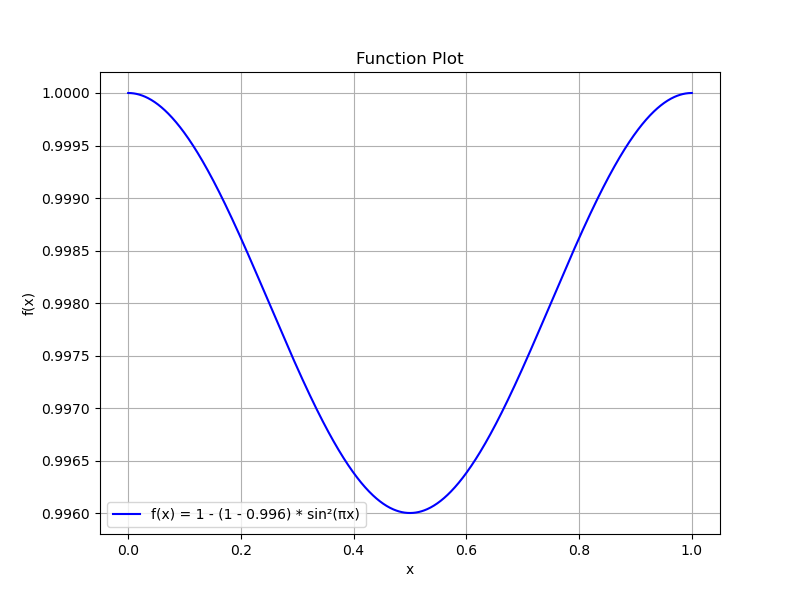
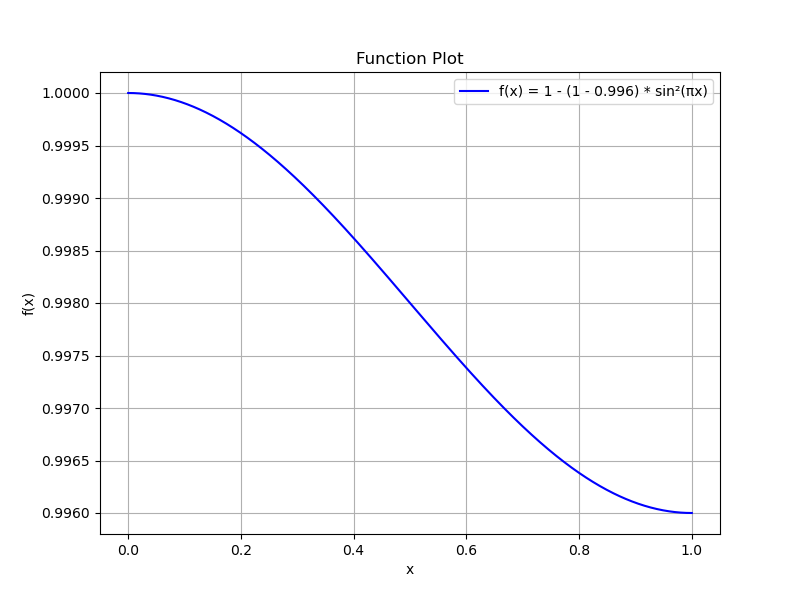
修改可视化环境

diff --git a/show.py b/show.py
@@ -8,7 +8,7 @@ def f(x, factor, k=1):
 # 设置参数
 factor = 0.996  # 最小值，可调整
 x = np.linspace(0, 1, 1000)  # 定义域 [0,1]
-k = 1
+k = 0.5
 y = f(x, factor, k)
 
 # 绘制图像
